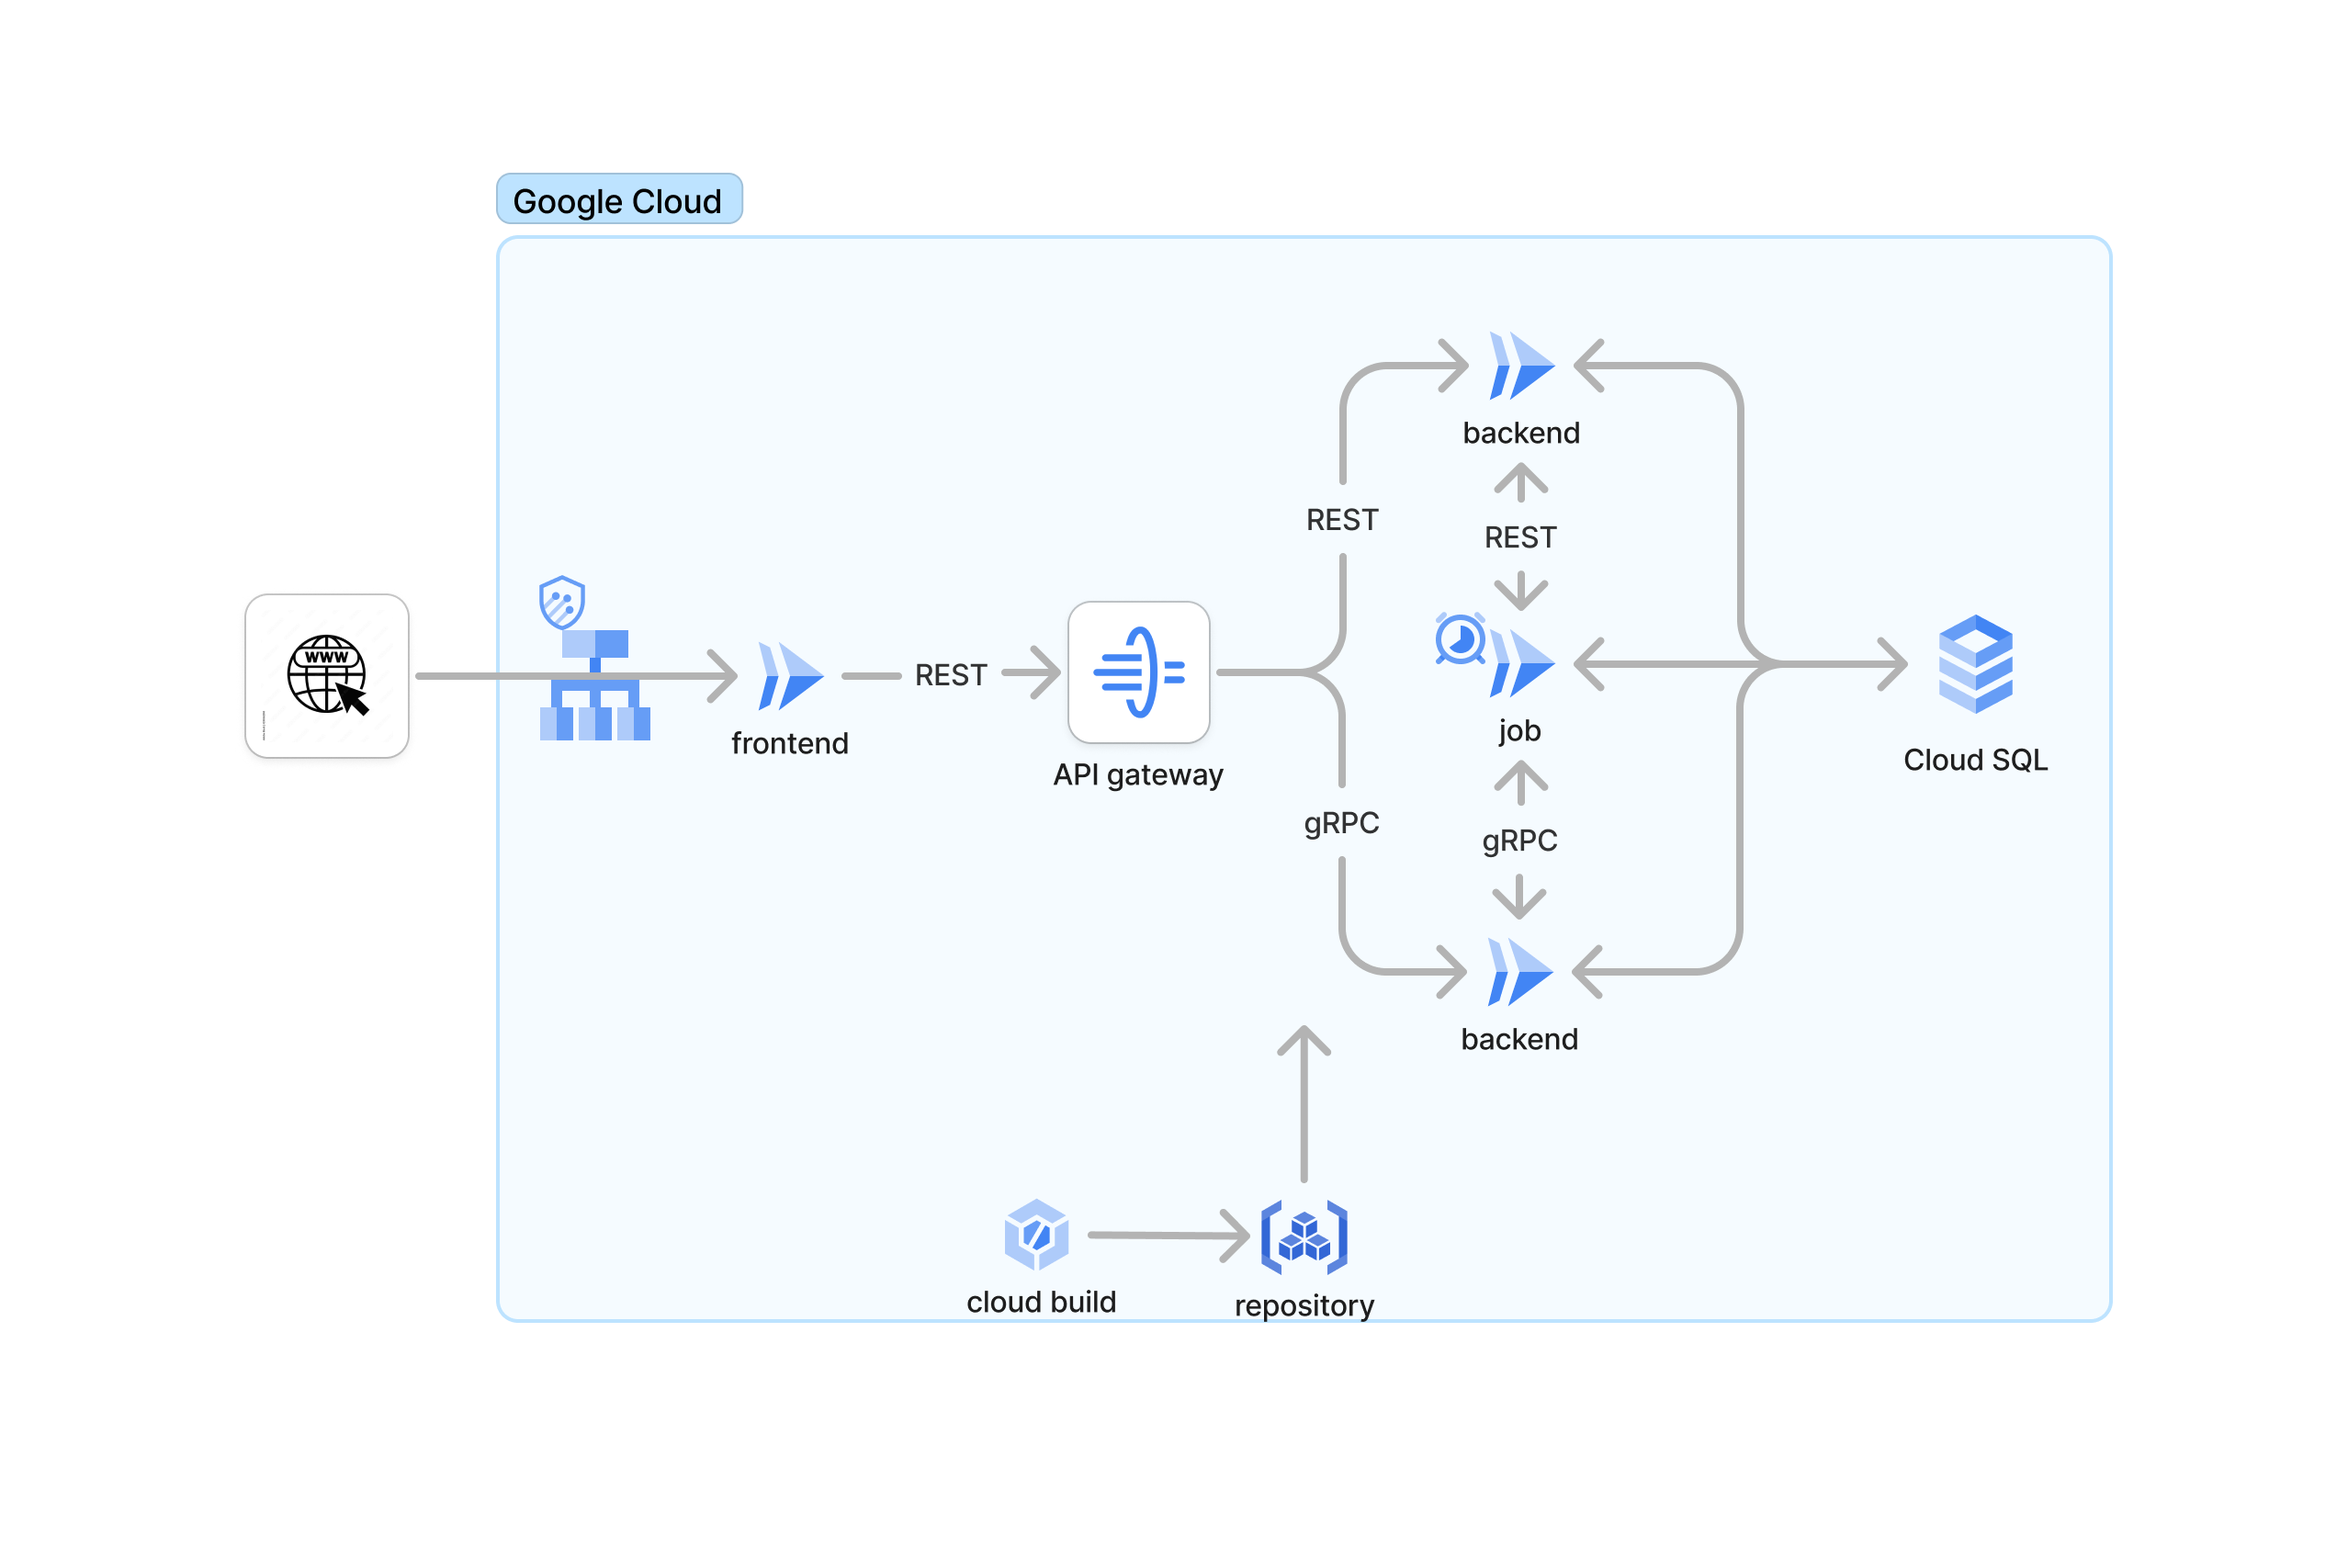
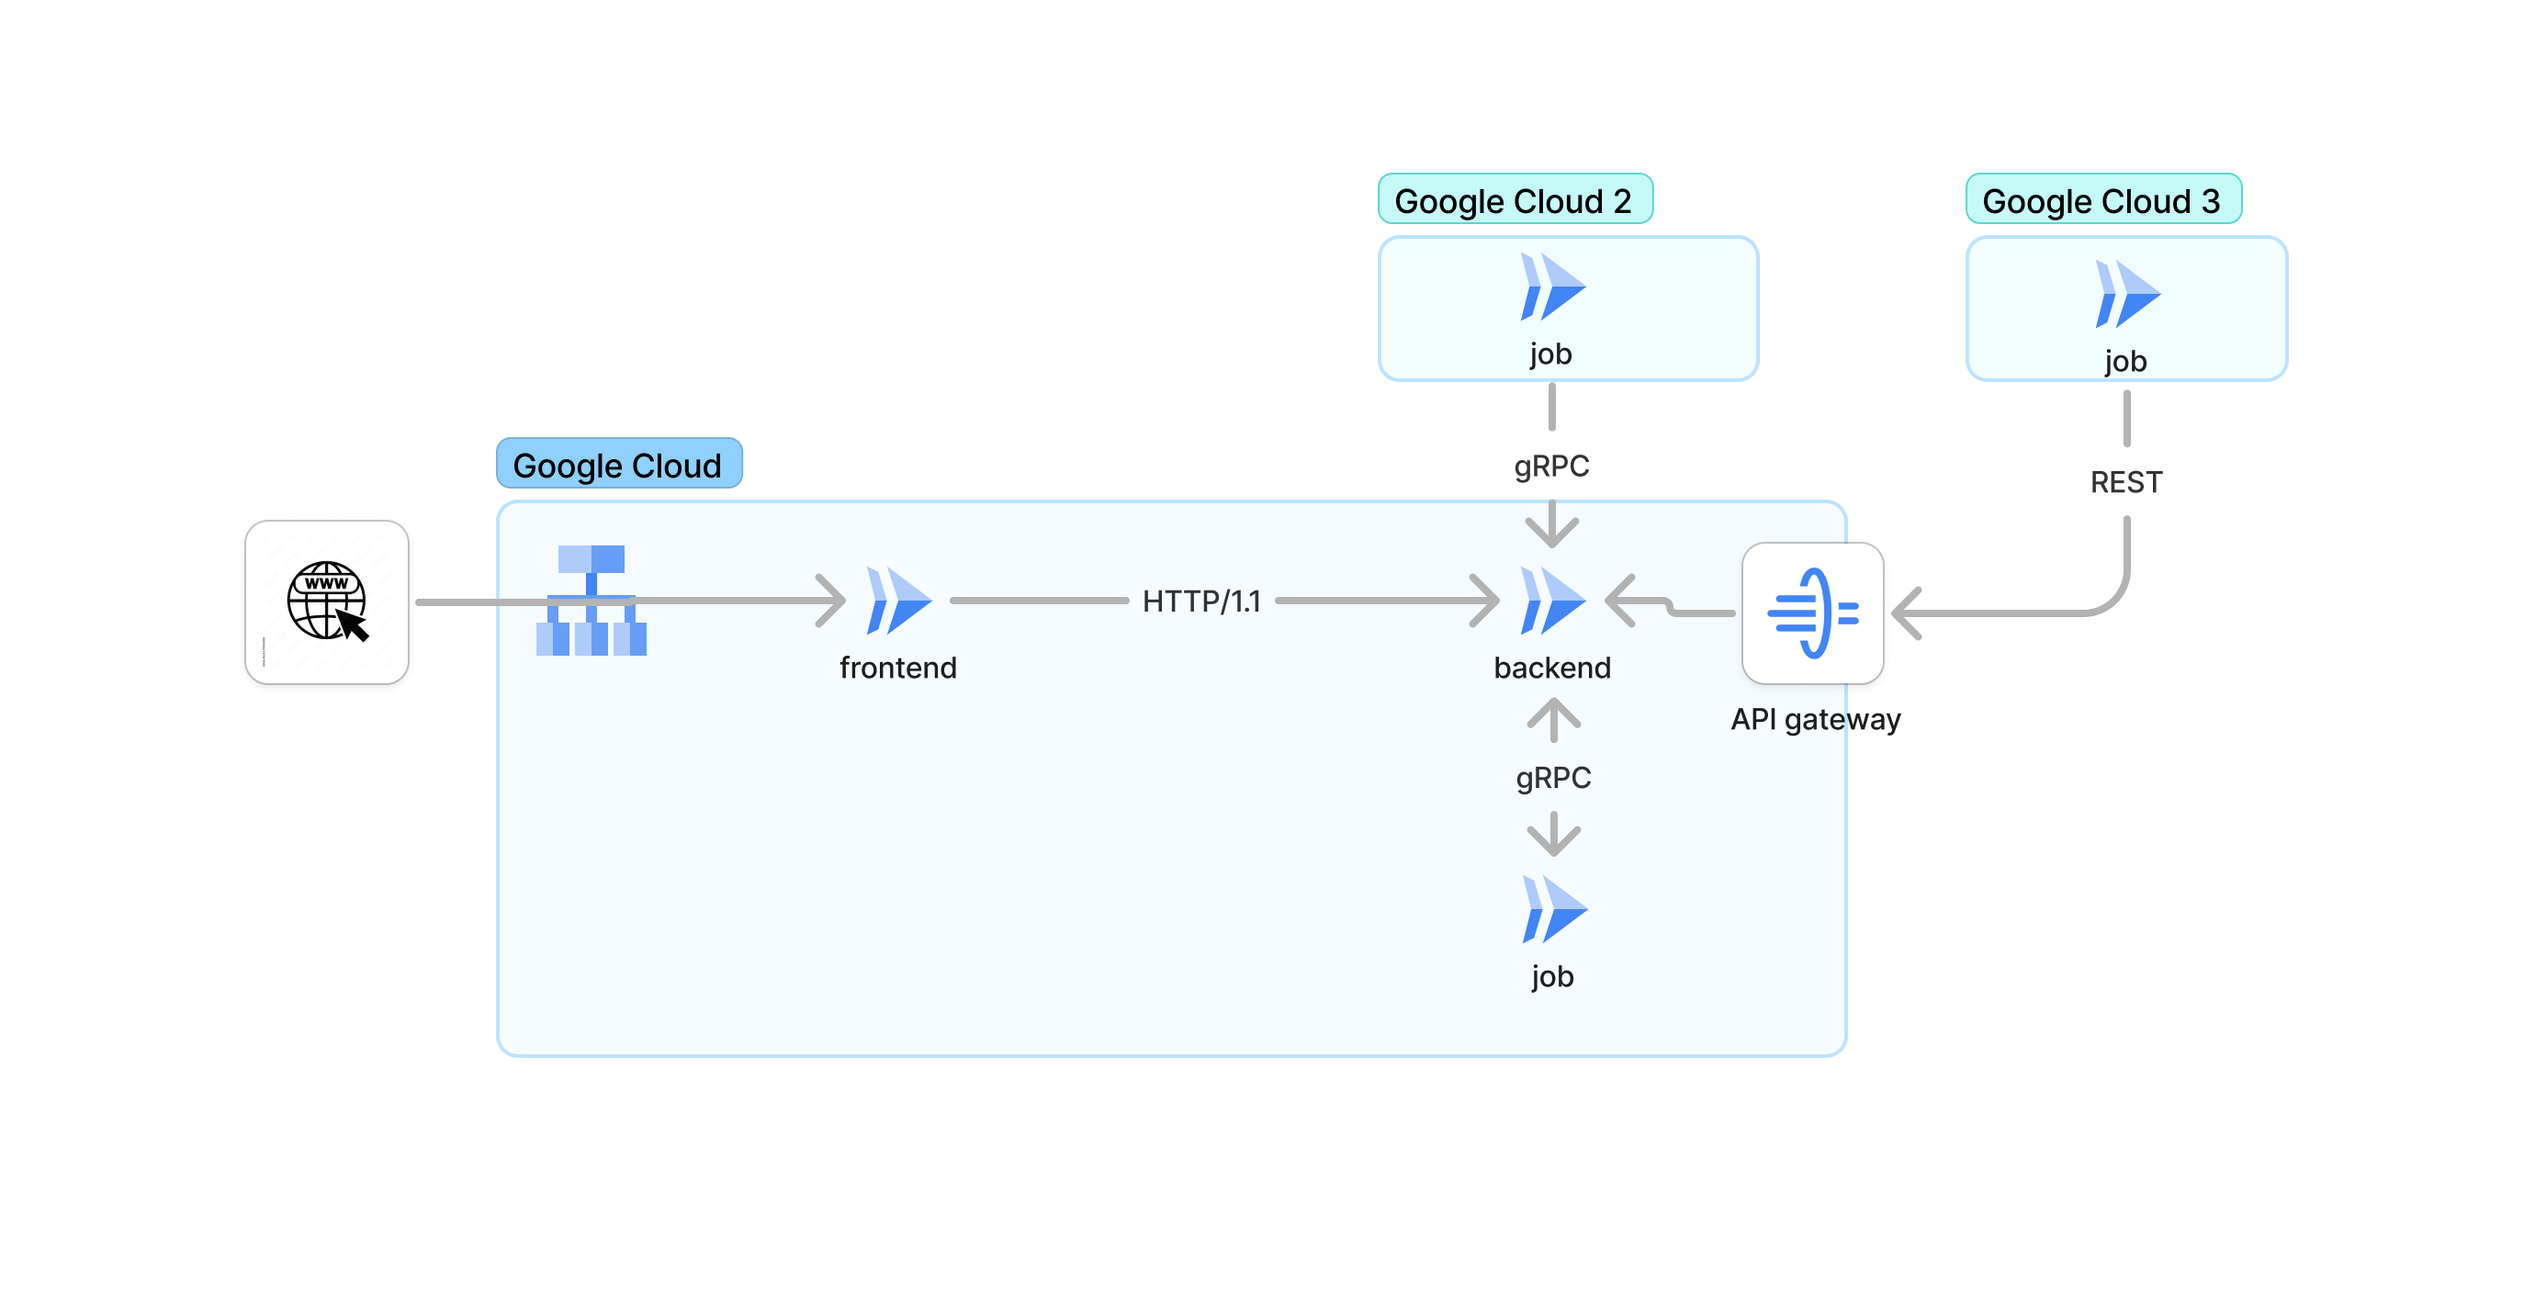
Update project documentation and add gRPC instruction
- Update README.md with minor content adjustments
- Add new gRPC instruction document explaining protocol details
- Add gRPC gateway architecture image
- Minor comment update in gRPC backend ping service
- Update microservices architecture diagram

diff --git a/apps/grpc_backend/src/cmd/ping.go b/apps/grpc_backend/src/cmd/ping.go
@@ -29,7 +29,7 @@ func (p *PingServer) Ping(
 	return res, nil
 }
 
-// protoに定義されている関数はすべて実装しないとエラーになる
+// どうやらprotoに定義されている関数はすべて実装しないとエラーになる
 func (p *PingServer) PingSample(
 	ctx context.Context,
 	req *connect.Request[proto.PingRequest],

diff --git a/instruction/001_gRPC.md b/instruction/001_gRPC.md
@@ -1,0 +1,68 @@
+# gRPCについて
+
+gRPCはRESTやGraphQLと同様に、通信プロトコルの一つ
+
+1. 主な特徴
+   - Protocol Buffersを使用した効率的なデータシリアライズ
+   - HTTP/2ベースの通信による高速な双方向ストリーミング
+   - 多言語対応（Go, Java, Python, Node.js, etc.）
+   - 型安全なAPI定義
+
+2. 基本的な仕組み
+   - `.proto`ファイルでサービスとメッセージを定義
+   - コード生成ツールで各言語用のコードを自動生成
+   - クライアント/サーバー間で効率的な通信を実現
+
+3. 通信パターン
+   - Unary RPC: 一般的な1リクエスト1レスポンス
+   - Server Streaming: サーバーから継続的にデータを送信
+   - Client Streaming: クライアントから継続的にデータを送信
+   - Bidirectional Streaming: 双方向でデータをストリーミング
+
+4. RESTとの比較
+   - gRPC: バイナリベースで高速、型安全、コード生成
+   - REST: テキストベース(JSON)、シンプル、広く普及
+
+5. ユースケース
+   - マイクロサービス間通信
+   - モバイルアプリとバックエンド間の通信
+   - リアルタイムの双方向通信が必要なシステム
+
+### 簡単にまとめると
+- 型安全
+- マイクロサービスに用いられがち(そういうデータは無し)
+
+# webで用いるためには
+実はブラウザがHTTP/2 通信に対応していないのでただgRPCでコードを生成してもブラウザからの通信できない。<br/>
+よって、webでgRPCを扱うためには何かしらの方法で HTTP/1.1 に変換する必要がある。<br/>
+
+### 知りうる限りの方法(おすすめ順)
+
+1. connect (本リポで採用)
+    - 他と比べて何も考えなくて良い
+    - api gatewayにもできる
+    - RESTにもできる
+    - 但しpostしか定義できない
+
+2. grpc-gateway
+    - プロキシサーバーを作る
+    - プロキシサーバー宛にREST通信
+    - backendサーバー宛にgRPC の両方が可能
+    - プロキシサーバーを建てないといけないので api gatewaにはできない? っぽい
+
+3. envoy (試してもいない)
+    - grpc-gatewayと同じっぽい
+
+4. nextjsのAPIルート
+    - APIルートはサーバーサイドになるため、HTTP/2通信ができる
+    - やってることはプロキシサーバーを建てるのと同じだが、物理的なプロキシサーバーが不要
+    - client -> APIルート間の処理は書かないといけない
+    - connectで良い
+
+
+# gRPCの基本的な使い方
+1. .protoファイルを作成
+2. コマンド(buf)でリクエスト & 受信用コード生成
+3. バックエンドは受信用コードをインターフェースにしてビジネスロジックなどを書く
+4. フロントはその逆
+5. 以上

diff --git a/README.md b/README.md
@@ -7,9 +7,7 @@
 
 ---
 ## 構成
-### モノリス版
-![monolith.png](assets/monolith.png)
-### マイクロサービス版
+※ Googlo Cloud 2, 3 は予定
 ![microservices.png](assets/microservices.png)
 
 
@@ -33,13 +31,13 @@ unaryとserver streamingの2つを実装<br>
 - connectのバックエンドを実装
 - それ以外はREST APIと同じ
 ### protoフォルダの管理方法
-- root直下に配置して各app内にシンボリックリンクを張る
+- root直下にsubtreeとして配置して各app内にシンボリックリンクを張る
 - それぞれのappの言語で.pb生成コマンドを使用するのと、上位ディレクトリを参照するのが良くなさそうで。
 - .pbはローカルで生成してgit管理する
 
 ---
 ### Infra: Terraform
-- Google Cloud Platform
+- Google Cloud
 - Atlantis [Demo](./infra/terraform/atlantis/README.md)
 
 ### Database: PostgreSQL, sqlite
